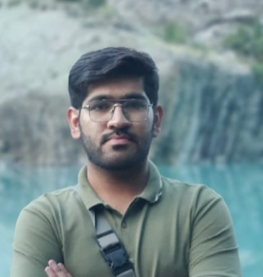
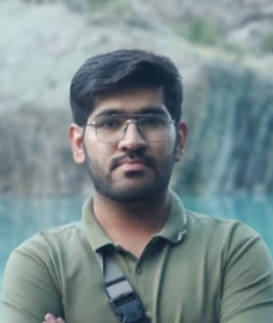
fixed the img issue here in the team screen

diff --git a/src/pages/Team.tsx b/src/pages/Team.tsx
@@ -15,13 +15,13 @@ import {
 import yousuf from "../assets/images/kk-team/yousuf.jpeg";
 import dummy from "../assets/images/kk-team/sam.png";
 import asim from "../assets/images/kk-team/asim.png";
-import anees from "../assets/images/kk-team/anees.jpeg";
+import anees from "../assets/images/kk-team/anees.png";
 import subtain from "../assets/images/kk-team/subtain.png";
 import hassanMK from "../assets/images/kk-team/hassanMK.jpeg";
 import zuhair from "../assets/images/kk-team/zuhair.jpg";
-import shameer from "../assets/images/kk-team/shameer.jpeg";
-import saeed from "../assets/images/kk-team/saeed.jpeg";
-import kamil from "../assets/images/kk-team/kamil.jpeg";
+import shameer from "../assets/images/kk-team/shameer.png";
+import saeed from "../assets/images/kk-team/saeed.png";
+import kamil from "../assets/images/kk-team/kamil.png";
 import q_saif from "../assets/images/kk-team/q_saif.jpeg";
 import moeen from "../assets/images/kk-team/moeen.jpeg";
 import saad from "../assets/images/kk-team/saad.jpeg";
@@ -31,7 +31,7 @@ import john from "../assets/images/kk-team/john.jpeg";
 import qazi from "../assets/images/kk-team/qazi.jpeg";
 
 const ceo = {
-  name: "Mrs. Anah",
+  name: "Mis Anah",
   role: "HR & Finance Management",
   bio: "Leading our human resources and financial operations with strategic vision and exceptional leadership skills.",
   education: "Business Administration",
@@ -245,7 +245,7 @@ const employees = [
     image: saif,
   },
   {
-    name: "Miss Sam",
+    name: "Mis Sam",
     role: "Full Stack Developer",
     department: "Development",
     skills: ["Full Stack", "Web Development", "React", "Node.js"],
@@ -577,7 +577,7 @@ export default function Team() {
                     <img
                       src={employee.image}
                       alt={employee.name}
-                      className="w-20 h-20 mx-auto rounded-full object-cover shadow-md ring-2 ring-blue-100"
+                      className="w-20 h-20 mx-auto rounded-full object-contain shadow-md ring-2 ring-blue-100"
                     />
                     <div className="absolute inset-0 rounded-full bg-gradient-to-tr from-blue-500 to-indigo-600 opacity-20 mx-auto w-20 h-20"></div>
                   </div>
